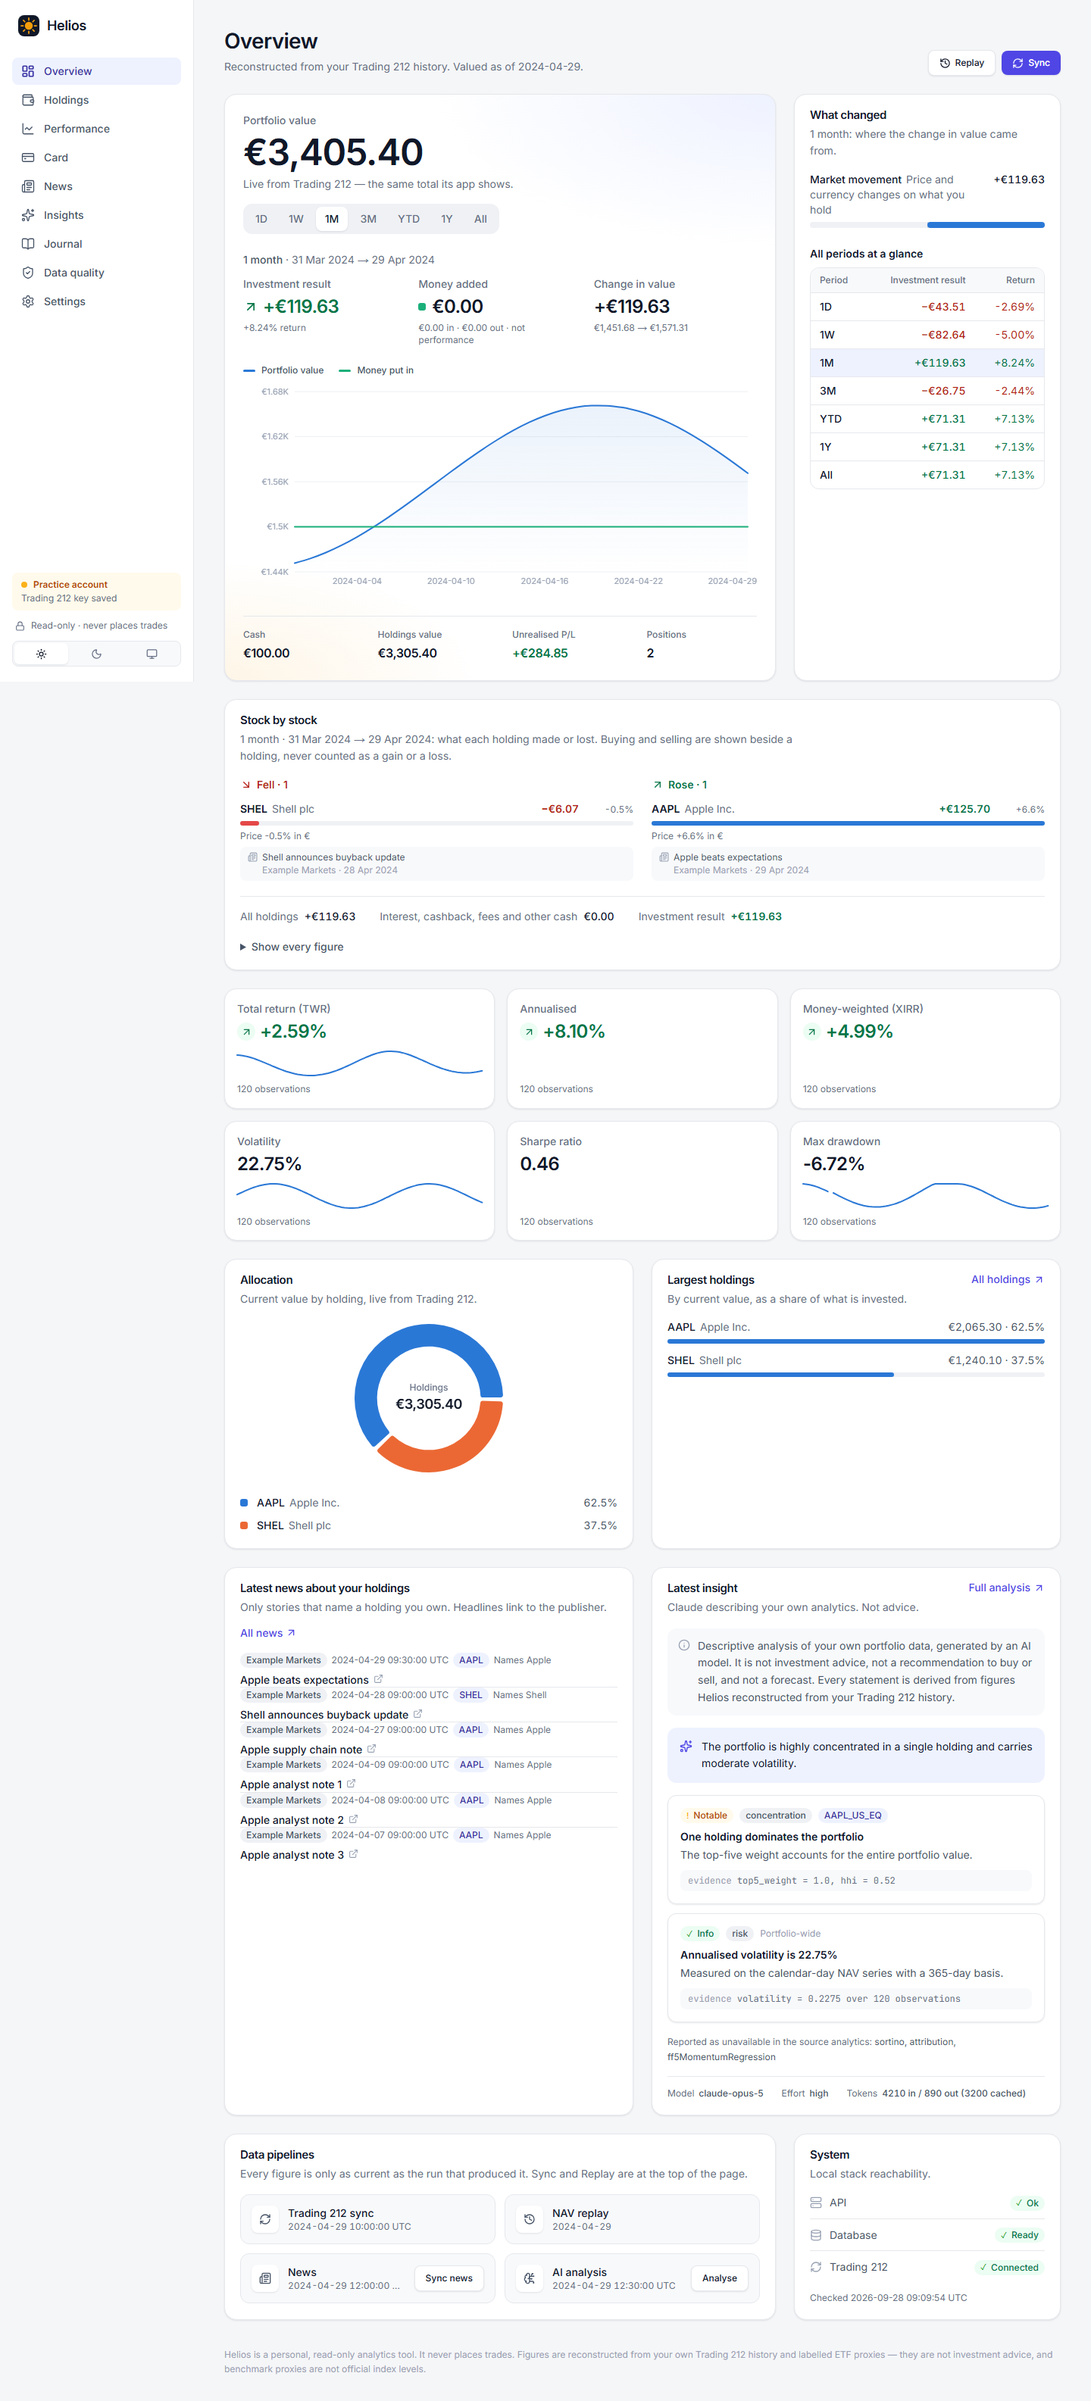
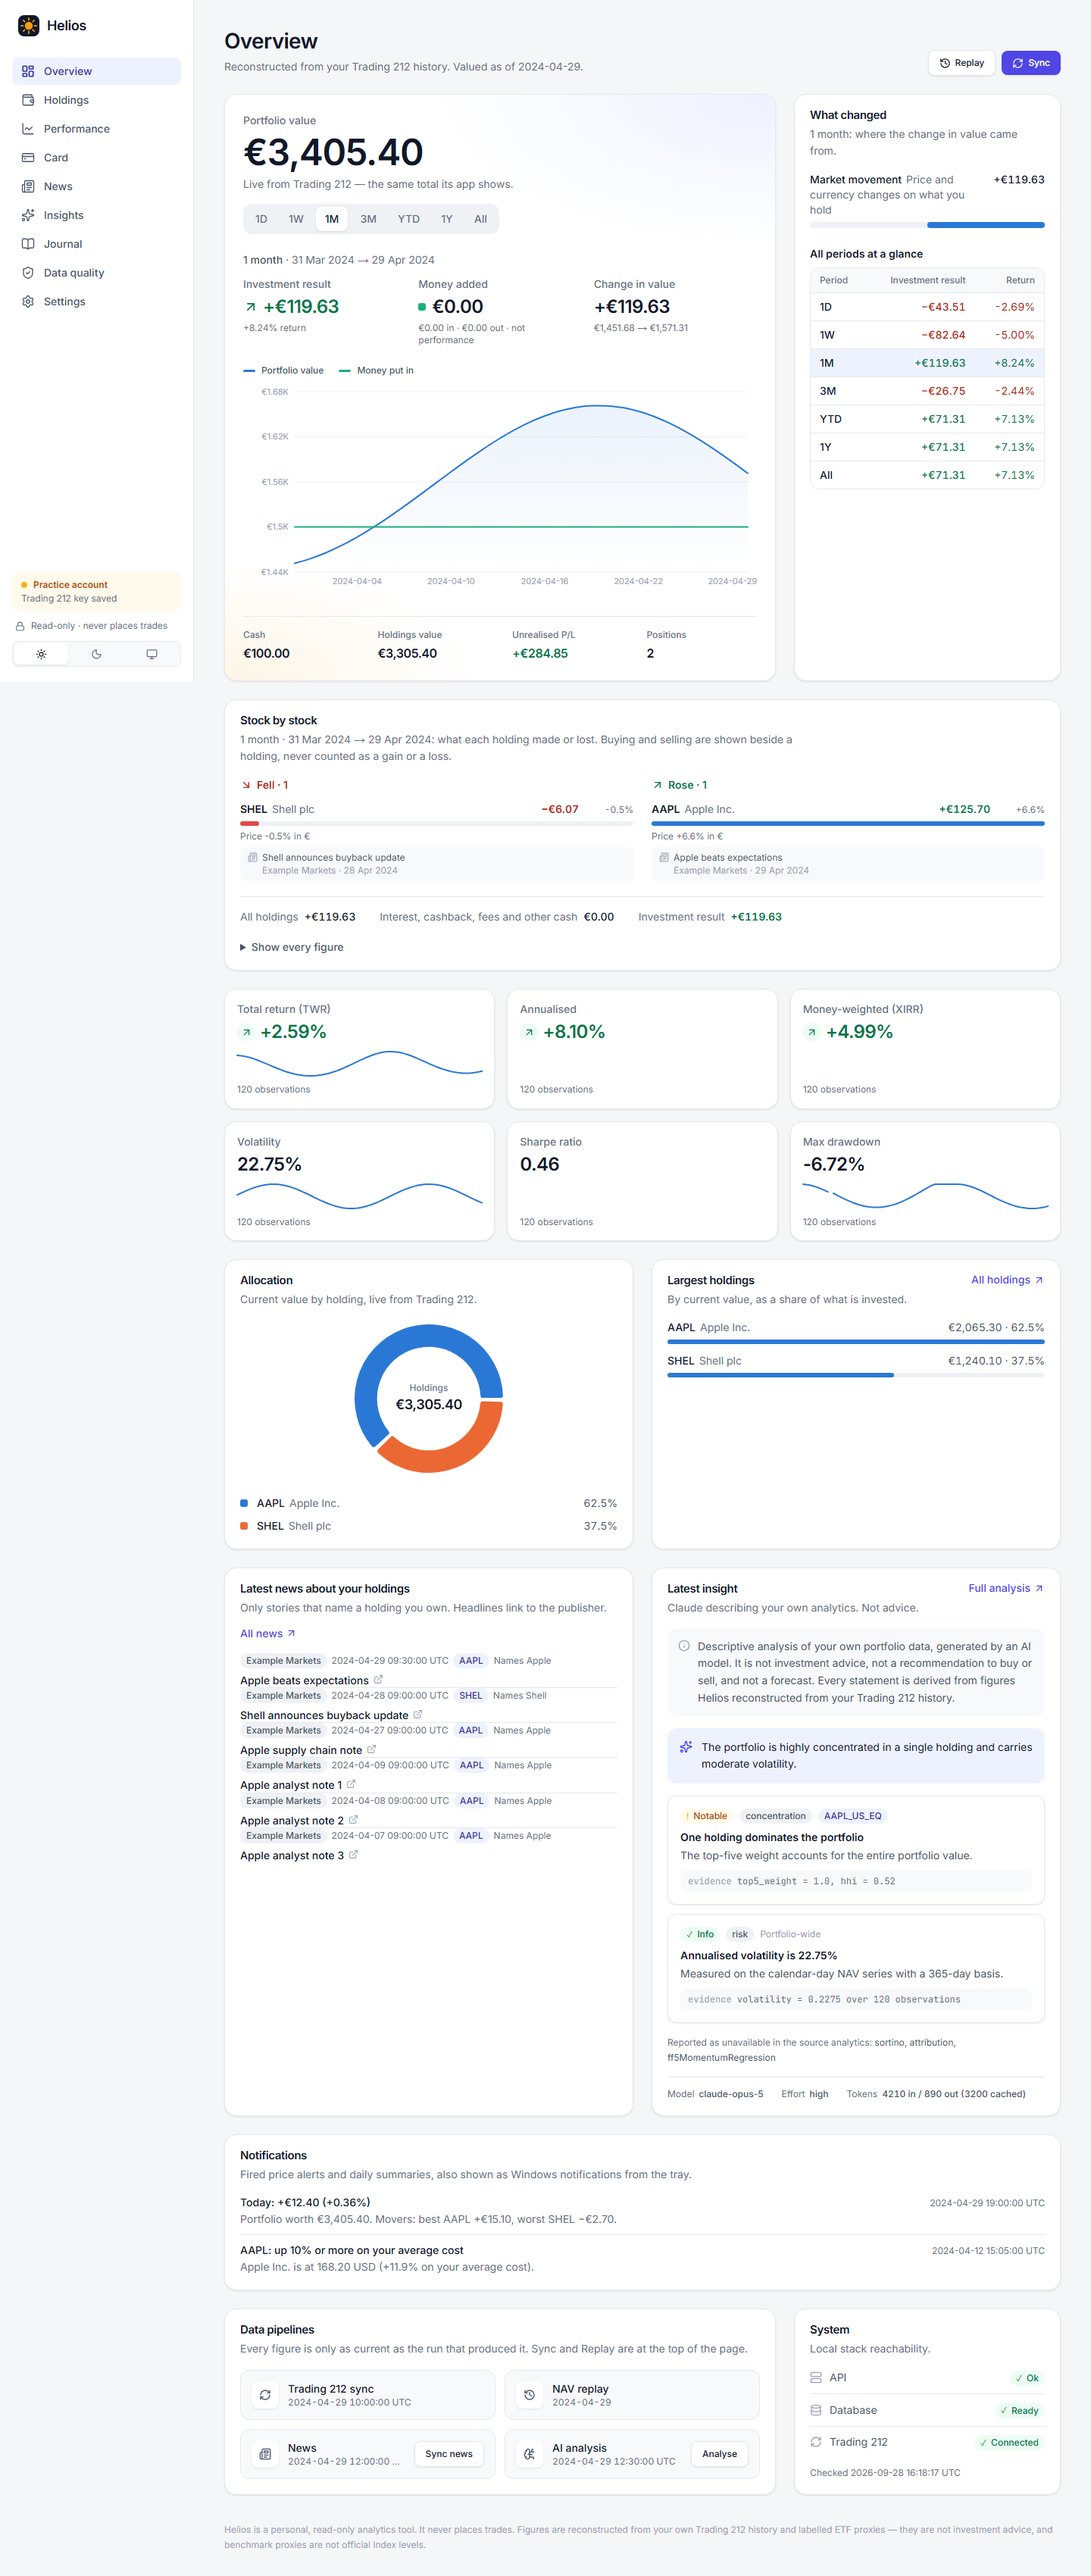
docs: README covers the desktop app, periods, stock pages, card history, alerts
Also states plainly the one non-GET request Helios makes to Trading 212 (its own CSV report),
and the second price sources for London listings. Screenshot evidence refreshed.

diff --git a/README.md b/README.md
@@ -13,8 +13,12 @@ Trading 212's app shows you positions and a simple return figure, but nothing li
 - Compares your portfolio against configurable ETF benchmark proxies and against the Kenneth French factor library (FF5 + momentum).
 - Pulls in free news feeds (Yahoo Finance, SEC filings, Google News, optionally Marketaux) with cross-source deduplication.
 - Optionally asks Claude to describe what the computed analytics show, in plain language, with every claim tied to a specific number.
+- Splits every period (a day, a week, a month, the year, since you started) into money you moved in or out and what the investments actually made, and splits that result stock by stock, so a deposit never looks like a gain and you can see exactly which holding dropped.
+- Gives each holding its own page: price chart with your trades and average cost marked, your position against the money you put in, results by period, dividends, news that actually names the company, and price alerts.
+- Reads your 212 Card history from Trading 212's CSV export: spending by day, week and month, by merchant and category, recurring charges, monthly budgets, and cashback counted as income rather than as money you added.
+- Sends a Windows notification when an alert fires, plus a short summary each evening.
 - Lets you record an investment thesis before you know the outcome, then journal updates and later mark it validated, invalidated or closed.
-- Ships a dashboard (overview, holdings, performance, news, insights, journal, data-quality) that reads the same API as the CLI.
+- Ships a dashboard (overview, holdings, performance, card, news, insights, journal, data-quality, settings) that reads the same API as the CLI, and runs as a desktop app with a tray icon.
 
 ## How it works
 
@@ -27,6 +31,17 @@ The news pipeline has the same raw-first idea: every fetched response is stored 
 The AI analysis feature is built to avoid the obvious failure mode of an LLM "advising" trades. The structured output schema literally has no field for a rating, a price target or a buy/sell call, so there's nowhere for one to end up even if the model tried. Every observation it produces is required to cite the specific metric it's based on, and any metric the backend already flagged as unavailable is passed through as unavailable rather than estimated. It only ever runs when you ask for it, since each call costs a small amount of money and I didn't want it quietly running on a schedule.
 
 ## Running it
+
+As a desktop app (what I use day to day, no Docker):
+
+```bash
+make install                                  # pip install -e ".[dev,desktop]" -c constraints.txt
+helios-desktop --install-shortcut             # Desktop + Start Menu shortcuts
+```
+
+Then open Helios from the shortcut. It builds the dashboard the first time, starts the API, the worker and the web server, opens the app window and sits in the tray. Keys go in through the Settings page, which checks them before saving. `helios-desktop --autostart on` starts it with Windows.
+
+Or with Docker:
 
 ```bash
 cp .env.example .env      # add your Trading 212 key and any optional API keys
@@ -44,14 +59,16 @@ The only account you actually need is your own Trading 212 API key (Settings →
 
 | Account | Unlocks | Cost |
 | --- | --- | --- |
-| Twelve Data | Daily prices, so performance/risk metrics compute at all | free tier, 800 calls/day |
+| Twelve Data | Daily prices, so performance/risk metrics compute at all | free tier, 800 calls/day (US listings) |
+| EODHD | Full daily history for US and international listings (London, Xetra, Euronext...) | paid; free tier is 20 calls/day, one year |
+| Alpha Vantage | A free second source for London listings | free tier, 25 calls/day, last ~100 trading days only |
 | Anthropic | The Insights page (Claude describing your analytics) | pay-per-use, a small fraction of a cent to a few cents per run |
 | Marketaux | Ticker-tagged international news | free tier, 100 req/day |
 | OpenFIGI | Faster instrument mapping | free |
 
 ECB FX rates, the Kenneth French factor data, Yahoo Finance and Google News all work with no account. SEC EDGAR filings need one setting rather than an account: the SEC requires a User-Agent naming a real contact, so that feed is skipped until you set `HELIOS_NEWS_SEC_USER_AGENT="Your Name your@email.com"`.
 
-Twelve Data's free tier only covers US exchanges, which has two consequences: the default benchmarks are US-listed ETFs (`IVV`, `URTH`, `VT`) rather than the UCITS versions a European investor would actually buy, and European-listed holdings simply won't get a price. They report `unavailable` rather than being guessed at. Getting real EU coverage means paying for a broader data plan. AI analysis costs work the same way: Claude Opus is the default model for quality, Haiku is the cheap option, and the system prompt is cached so a second run in the same session costs less than the first.
+Twelve Data's free tier only covers US exchanges, so London-listed ETFs need a second price source, picked in Settings: Alpha Vantage's free key works but only reaches back about 100 trading days, and days it can't price are left out of returns rather than guessed at; EODHD gets the full history in one call per holding. AI analysis costs work the same way: Claude Opus is the default model for quality, Haiku is the cheap option, and the system prompt is cached so a second run in the same session costs less than the first.
 
 ## Not financial advice
 
@@ -59,11 +76,12 @@ The passive-benchmark comparison is a counterfactual built from proxy ETF prices
 
 ## Safety and privacy
 
-Trading 212 access is strictly read-only (GET requests only); no trade or account mutation is ever sent. Everything Helios computes stays in your own local SQLite database. Nothing is sent anywhere except the specific third-party API you've configured, and only the data that call needs (Trading 212 credentials never leave that one client, for instance). Keep demo and live Trading 212 keys separate, and don't commit secrets into tracked files.
+Trading 212 access is read-only: every request is a GET, with one exception. Card payments only get a merchant name in Trading 212's CSV export, so Helios asks for that report of your own history, at most once a day. That request has a fixed body and can't do anything else, and no trade or account change is ever sent. Trading 212 sends a notification to your phone each time a report is made, which is why it's daily and not more often. Everything Helios computes stays in your own local SQLite database. Nothing is sent anywhere except the specific third-party API you've configured, and only the data that call needs (Trading 212 credentials never leave that one client, for instance). Keep demo and live Trading 212 keys separate, and don't commit secrets into tracked files.
 
 ## Limitations and what I'd improve
 
 - Sector-level (Brinson-Fachler) attribution isn't implemented yet: there's no licensed index-constituent feed wired in, so that panel reports `unavailable`.
-- Non-US-listed holdings need a paid price provider; the free tier genuinely can't cover them.
+- Full price history for non-US holdings needs a paid provider (EODHD); the free sources cover the last few months at best.
 - The factor regression trails real time by about a month, since the Kenneth French library is only published monthly.
-- The dashboard is read-focused right now; most actions (sync, replay, journaling) still happen from the CLI, and I'd like more of that surfaced in the UI itself.
+- Card payments made since the last daily export show up as "not labelled yet" until the next export names the merchant; the transactions API alone can't tell a card payment from a bank withdrawal.
+- Price alerts use Trading 212's live price for things you hold and the last daily close for anything else, so an alert on a stock you don't own fires on the close, not intraday.
